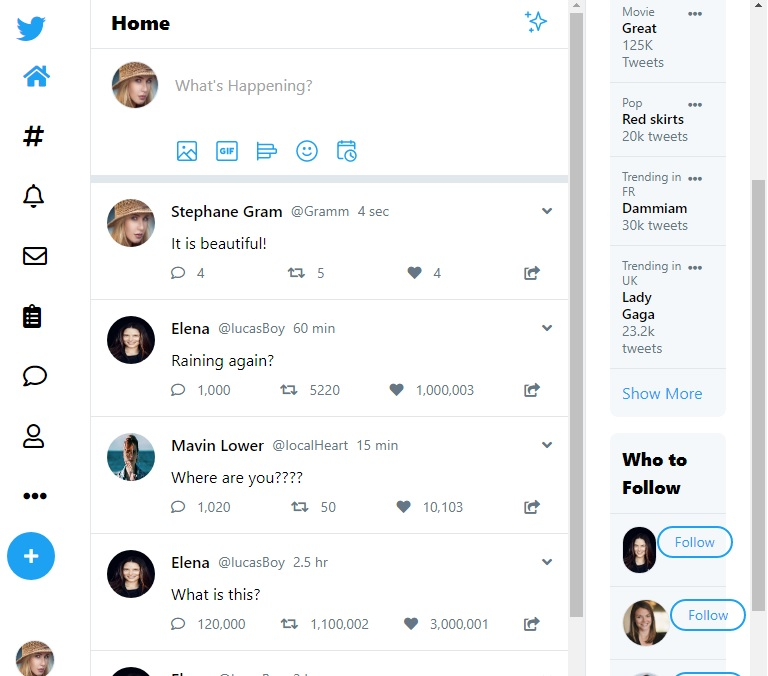
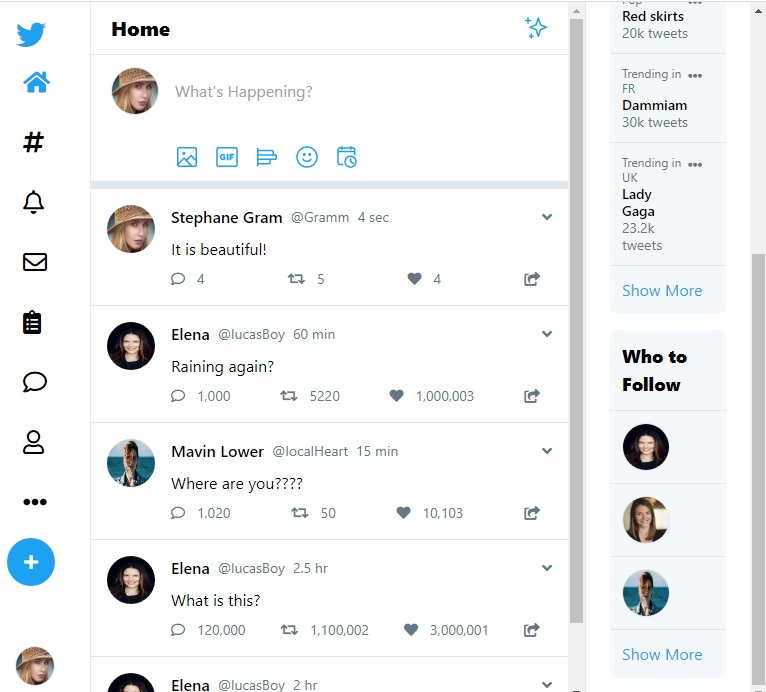
first commit

diff --git a/src/App.vue b/src/App.vue
@@ -330,7 +330,7 @@
             <p class="text-sm leading-tight">{{ friend.handle }}</p>
           </div>
           <button
-            class="ml-auto text-sm text-blue py-1 px-4 rounded-full border-2 border-blue"
+            class="ml-auto text-sm text-blue py-1 px-4 rounded-full border-2 border-blue hidden lg:block"
           >
             Follow
           </button>
